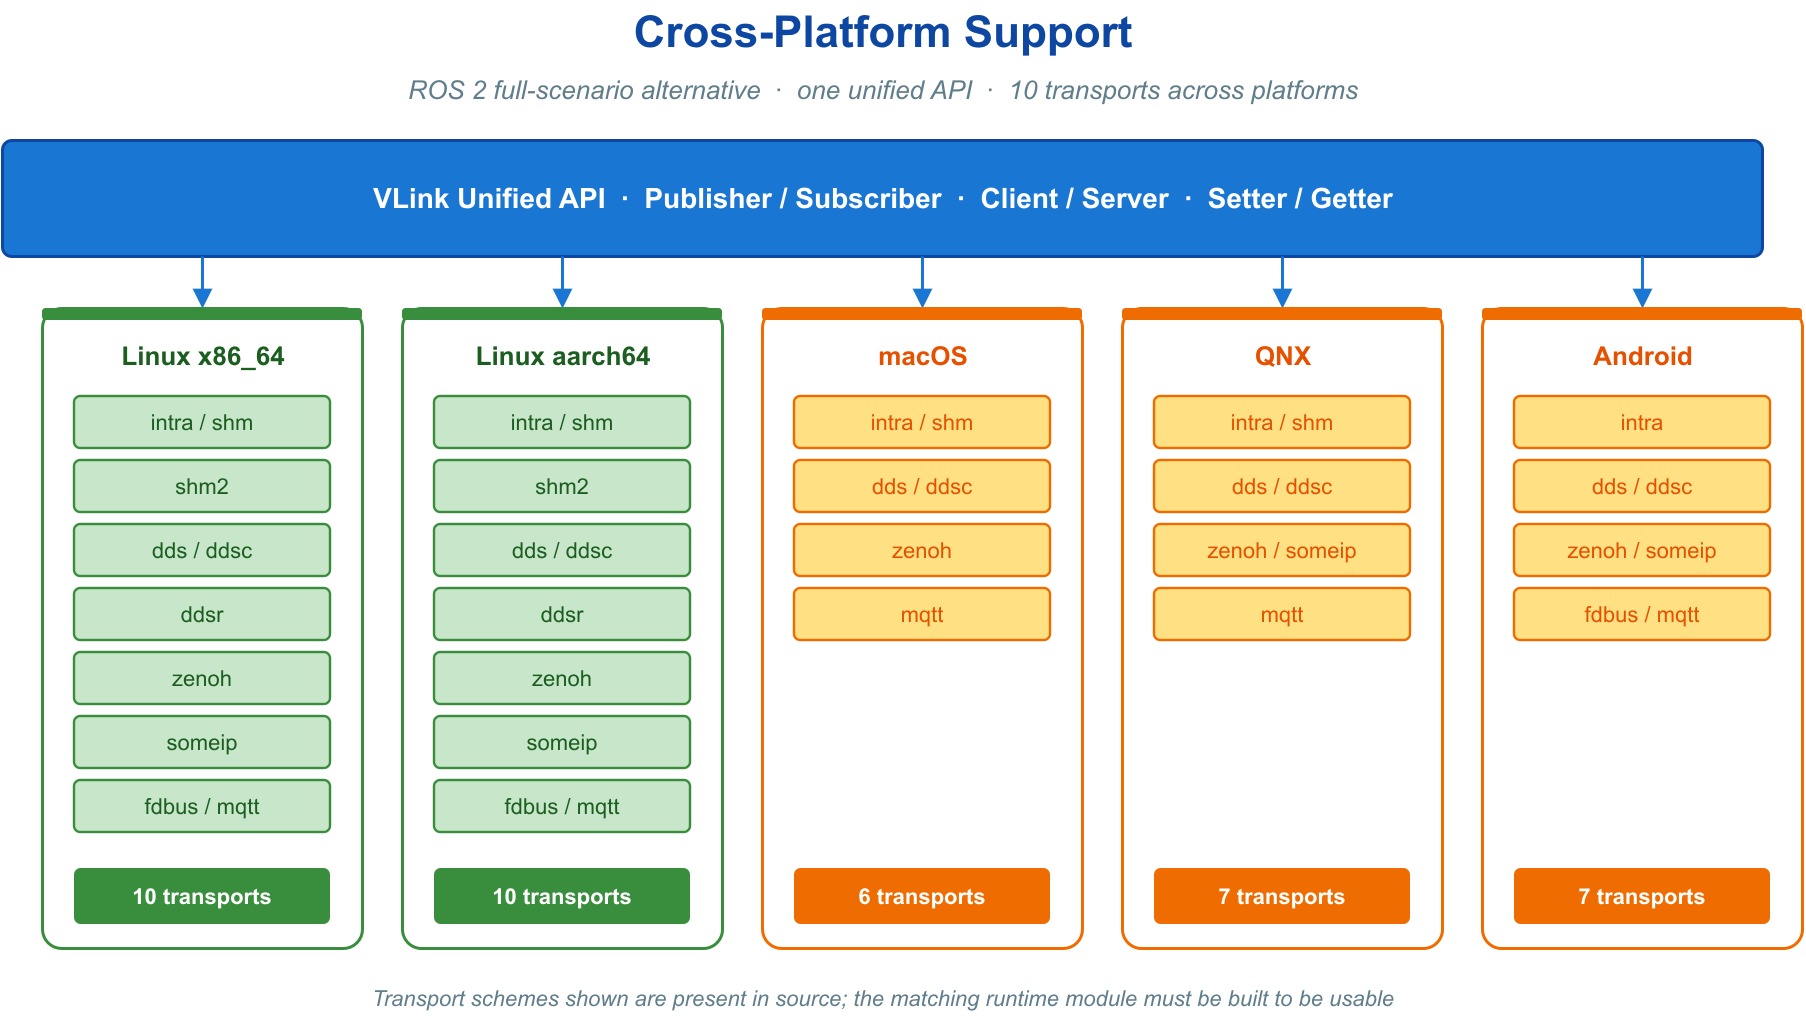
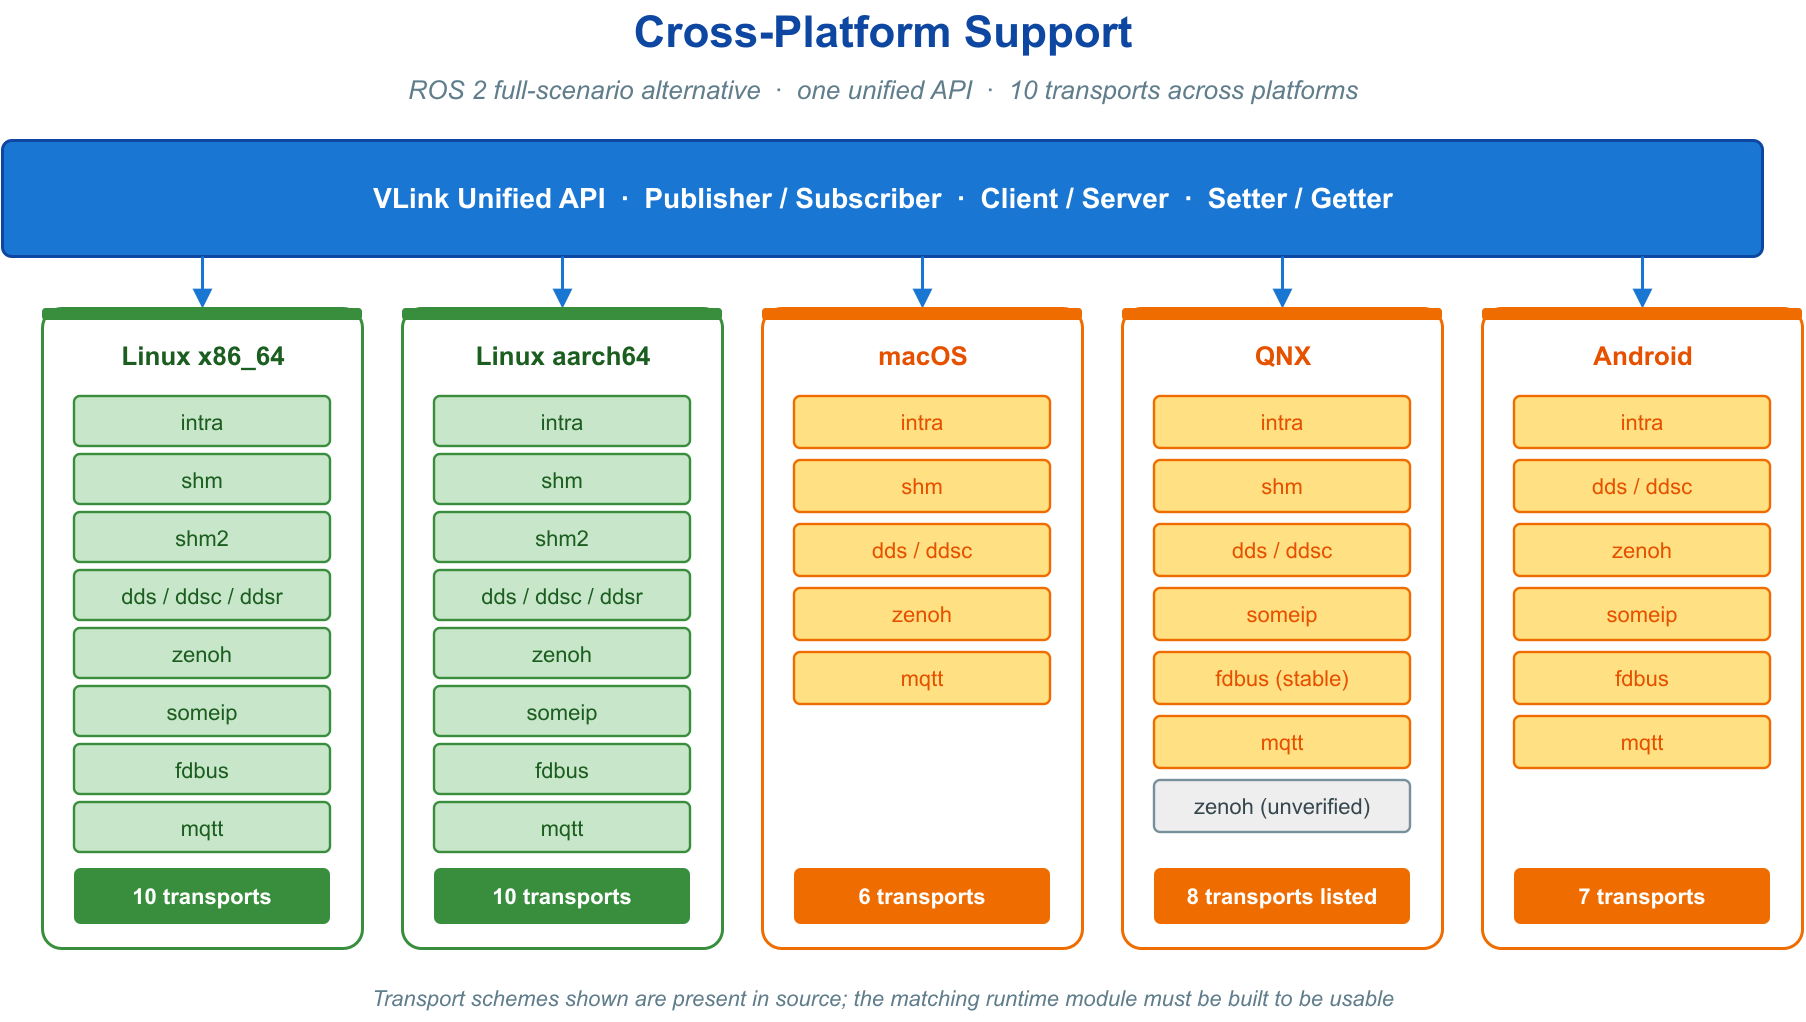
docs(transport): clarify QNX backend support across platform guides

diff --git a/.github/wiki/assets/js/i18n.js b/.github/wiki/assets/js/i18n.js
@@ -261,7 +261,7 @@ const DICT = {
     'mx.c.someip.n': 'SOME/IP · vsomeip',
     'mx.c.someip.m': 'AUTOSAR 车载以太网标准',
     'mx.c.fdbus.n': 'FDBus',
-    'mx.c.fdbus.m': 'Android/Linux 轻量级 D-Bus 替代',
+    'mx.c.fdbus.m': '轻量级 IPC，在 QNX 上稳定支持，也可用于 Android 和 Linux',
     'mx.c.mqtt.n': 'Paho MQTT',
     'mx.c.mqtt.m': '物联网 · 带宽受限',
 
@@ -590,7 +590,7 @@ const DICT = {
     'mx.c.someip.n': 'SOME/IP · vsomeip',
     'mx.c.someip.m': 'AUTOSAR automotive-Ethernet standard',
     'mx.c.fdbus.n': 'FDBus',
-    'mx.c.fdbus.m': 'Lightweight D-Bus alternative for Android / Linux',
+    'mx.c.fdbus.m': 'Lightweight IPC with stable QNX support, also available on Android and Linux',
     'mx.c.mqtt.n': 'Paho MQTT',
     'mx.c.mqtt.m': 'IoT · bandwidth-constrained',
 
@@ -919,7 +919,7 @@ const DICT = {
     'mx.c.someip.n': 'SOME/IP · vsomeip',
     'mx.c.someip.m': 'AUTOSAR 車載イーサネット標準',
     'mx.c.fdbus.n': 'FDBus',
-    'mx.c.fdbus.m': 'Android / Linux 向け軽量 D-Bus 代替',
+    'mx.c.fdbus.m': 'QNX で安定して利用できる軽量 IPC。Android と Linux にも対応',
     'mx.c.mqtt.n': 'Paho MQTT',
     'mx.c.mqtt.m': 'IoT · 帯域制約向け',
 

diff --git a/.github/wiki/index.html b/.github/wiki/index.html
@@ -286,7 +286,7 @@
         <span class="status beta" data-i18n="mx.status.beta">Beta</span>
         <div class="transport-prefix">fdbus</div>
         <div class="name" data-i18n="mx.c.fdbus.n">FDBus</div>
-        <div class="meta" data-i18n="mx.c.fdbus.m">Android/Linux 轻量级 D-Bus 替代</div>
+        <div class="meta" data-i18n="mx.c.fdbus.m">轻量级 IPC，在 QNX 上稳定支持，也可用于 Android 和 Linux</div>
         <div class="tags"><span class="tag" data-i18n="mx.tag.ipc">IPC</span></div>
       </div>
       <div class="mx d6">

diff --git a/doc/01-started.md b/doc/01-started.md
@@ -514,14 +514,15 @@ VLink 支持 Linux（x86_64 / aarch64）、Android、QNX 7.1 / 8.0、macOS（App
 | 后端 | Linux | Android | QNX | macOS | 备注 |
 | --- | :---: | :---: | :---: | :---: | --- |
 | `intra://` | 是 | 是 | 是 | 是 | 纯进程内，无外部依赖 |
-| `shm://` | 是 | 否 | 否 | 否 | 依赖 Iceoryx RouDi（POSIX SHM） |
+| `shm://` | 是 | 否 | 有条件支持 | 有条件支持 | 构建时需要目标平台的 Iceoryx，运行时需要 RouDi |
 | `dds://` | 是 | 是 | 是 | 是 | 跨机首选 |
 | `ddsc://` | 是 | 是 | 是 | 是 | CycloneDDS，跨机 |
-| `zenoh://` | 是 | 是 | 是 | 是 | 云边场景 |
+| `zenoh://` | 是 | 是 | [待验证](https://github.com/thun-res/vlink/issues/20#issuecomment-5125425413) | 是 | 云边场景 |
 | `someip://` | 是 | 是 | 是 | 否 | 车载以太网 |
+| `fdbus://` | 是 | 是 | 稳定支持 | 待确认 | 同机 IPC，依赖 FDBus |
 | `mqtt://` | 是 | 是 | 是 | 是 | IoT / 云端桥接 |
 
-> 完整矩阵（含 shm2 / ddsr / fdbus）见 [传输后端与 URL](04-transport.md)。
+> 各后端（含 shm2 / ddsr）的依赖与用法见 [传输后端与 URL](04-transport.md)。
 
 ### 🪜 1.8.2 通用三步法
 
@@ -544,7 +545,7 @@ cmake --build build_cross -j$(nproc)
 | --- | --- | --- | --- |
 | ARM Linux | `linux/linux.toolchain.aarch64.cmake` | `CROSS_COMPILE_PREFIX`（如 `aarch64-linux-gnu-`），sysroot 设 `LINUX_INSTALL_PREFIX` | 先装 `gcc-aarch64-linux-gnu g++-aarch64-linux-gnu` |
 | Android | `android/android.toolchain.aarch64.cmake` | `ANDROID_NDK`（NDK 根目录） | 必须 `c++_shared`；`shm://` 不可用，改用 `dds://`/`intra://`；日志默认走平台日志；API 21+ |
-| QNX | `qnx/qnx.toolchain.aarch64.cmake` | `QNX_HOST` / `QNX_TARGET`（source `qnxsdp-env.sh` 后自动设） | `shm://` 需构建 Iceoryx 模块并运行 RouDi |
+| QNX | `qnx/qnx.toolchain.aarch64.cmake` | `QNX_HOST` / `QNX_TARGET`（source `qnxsdp-env.sh` 后自动设） | 使用 `shm://` 时，交叉构建需能找到 QNX 版 `iceoryx_posh`；在目标机上先启动 RouDi，再启动业务进程 |
 | macOS | 本机直接编；交叉用 `darwin/darwin.toolchain.aarch64.cmake` | 交叉时 `VLINK_HOST_PLATFORM=darwin-x86_64` | Universal 包用 `-DCMAKE_OSX_ARCHITECTURES="arm64;x86_64"`；`shm://` 需构建 Iceoryx 模块并运行 RouDi |
 | Yocto | `linux/linux.toolchain.aarch64.cmake` | source SDK 后自动有 `SYSROOT` / `OE_CMAKE_TOOLCHAIN_FILE` | 工具链文件自动 include OE 配置 |
 | Buildroot | `linux/linux.toolchain.aarch64.cmake` | `CROSS_COMPILE_PREFIX` + `LINUX_INSTALL_PREFIX` 指向 Buildroot host/staging | 建议 `MinSizeRel` + 关闭 Proxy/SQLite |
@@ -753,7 +754,7 @@ ls build/output/bin/
 | --- | --- |
 | `shm://` | 启动 SHM 守护进程（`iox-roudi`，或用 VLink 内置代理 `vlink-proxy -c <iox 配置>` 内嵌拉起） |
 | `someip://` | 启动 vsomeip routing manager（Beta） |
-| `fdbus://` | 启动 FDBus name server（Beta） |
+| `fdbus://` | 默认 `#svc` 模式需启动 FDBus 名称服务 `name_server` |
 | `mqtt://` | 运行 MQTT Broker（Beta） |
 
 各后端的依赖、参数与配置见 [传输后端与 URL](04-transport.md)。

diff --git a/doc/04-transport.md b/doc/04-transport.md
@@ -71,7 +71,7 @@ pub.publish(25.6f);
 | 云边协同、物联网；经可达 router/显式 endpoint 跨 NAT | `zenoh://` | Beta |
 | 车载以太网、AUTOSAR 服务化 | `someip://` | Beta |
 | 带宽受限的物联网消息分发 | `mqtt://` | Beta |
-| 同机标准 IPC，类 D-Bus | `fdbus://` | Beta |
+| 同机标准 IPC，类 D-Bus | `fdbus://` | QNX 稳定，整体 Beta |
 
 ---
 
@@ -90,7 +90,7 @@ pub.publish(25.6f);
 | `zenoh://` | 跨机 / 云边 | 条件支持 | zenoh-c / zenoh-pico | Beta |
 | `someip://` | 车载以太网 | 否 | vsomeip | Beta |
 | `mqtt://` | 跨机 / 物联网 | 否 | Paho MQTT C | Beta |
-| `fdbus://` | 同机 | 否 | fdbus | Beta |
+| `fdbus://` | 同机 | 否 | fdbus | QNX 稳定，整体 Beta |
 
 能力边界条件：
 
@@ -364,7 +364,7 @@ vlink::Subscriber<std::string> sub("mqtt://sensor/data");
 sub.listen([](const std::string& msg) { VLOG_I("recv: ", msg); });
 ```
 
-**fdbus://** — 面向 Android/Linux 的轻量 IPC，语义类 D-Bus。`?event=` 设置次级事件名；`#svc`（经名称服务发现，默认）或 `#ipc`（直接 P2P）选择模式；`svc` 模式需系统中运行 fdbus 名称服务进程 `name_server`。
+**fdbus://** — 同机轻量 IPC，语义类 D-Bus，在 QNX 上稳定支持，也可用于 Android 和 Linux。`?event=` 设置次级事件名；`#svc`（经名称服务发现，默认）或 `#ipc`（直接 P2P）选择模式；`svc` 模式需系统中运行 fdbus 名称服务进程 `name_server`。
 
 ```cpp
 vlink::Publisher<std::string> pub("fdbus://my_service");

diff --git a/doc/14-reference.md b/doc/14-reference.md
@@ -142,7 +142,7 @@ URL 语法：`<scheme>://[<host>[:<port>]]/<path>[?<query>][#<frag>]`。`scheme`
 | `zenoh://` | Zenoh | 跨机 / 云边 | 条件 | IoT 边缘 | Beta |
 | `someip://` | vsomeip | 车载以太网 | 否 | ECU 服务化 | Beta |
 | `mqtt://` | Paho MQTT | 跨机 / 云 | 否 | IoT 云端 | Beta |
-| `fdbus://` | FDBus | 同机 | 否 | Android/Linux 混合 | Beta |
+| `fdbus://` | FDBus | 同机 | 否 | 同机服务间通信 | QNX 稳定，整体 Beta |
 
 后端选型按部署拓扑与负载推进：同进程高频传递选 `intra://`；同机大负载选 `shm://`；跨机通用选 `dds://` 或轻量 `ddsc://`；车载服务化选 `someip://`；云边协同选 `zenoh://`；云端桥接选 `mqtt://`。
 
